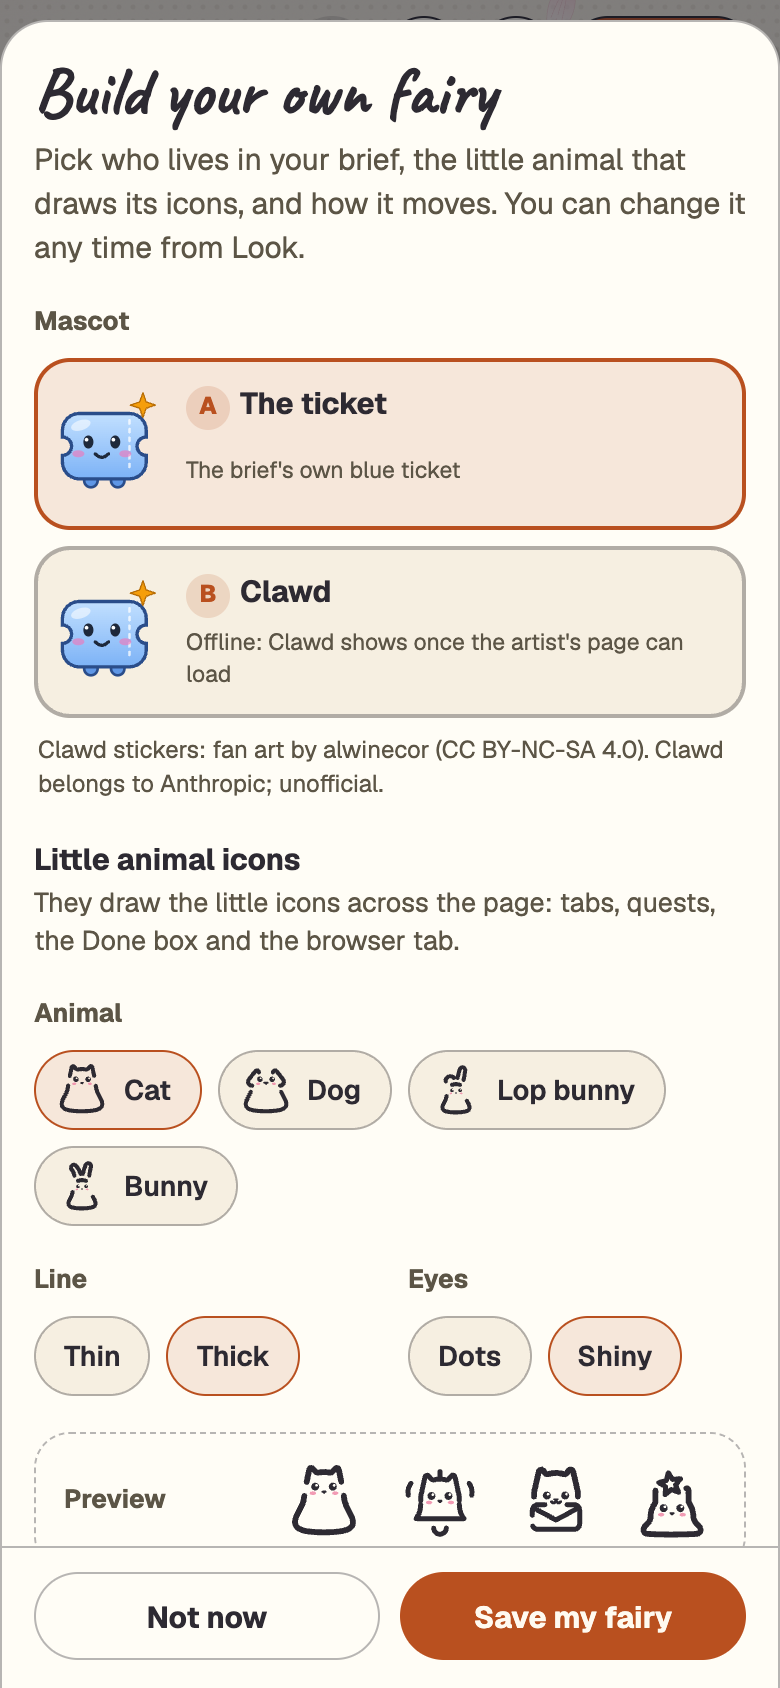
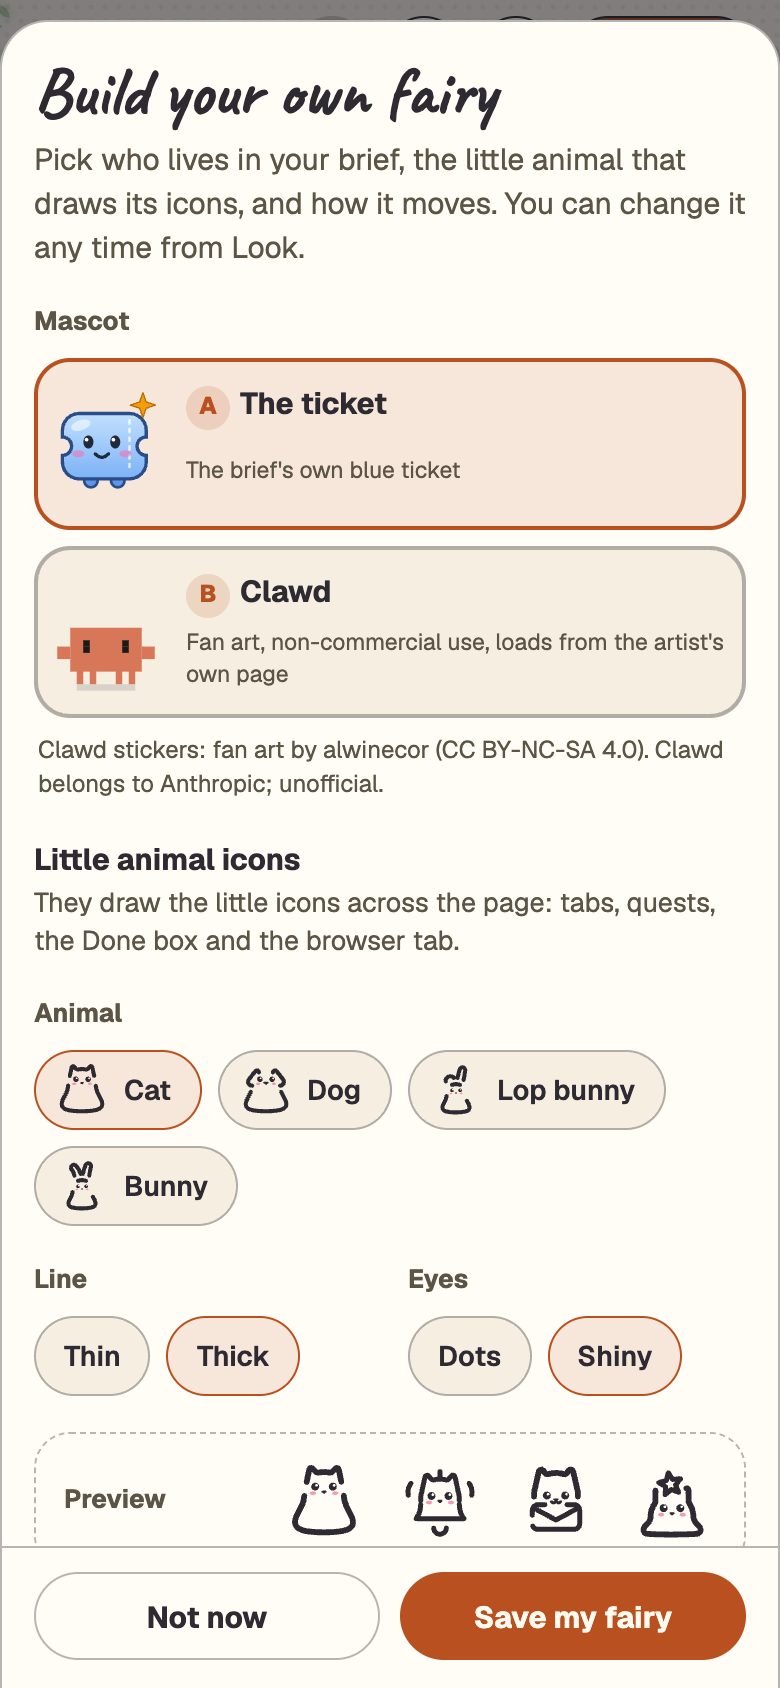
morning-fairy 1.4.1 — the README's picker pictures show Clawd's real sticker (#9)
The two picker screenshots were taken offline, so the Clawd card showed its fallback ticket. Re-shot online with the
artist's idle sticker. NOTICE and Credits now say those two images contain the sticker and are CC BY-NC-SA 4.0.

Changed region(s): [[0.4923, 0.3697, 0.9231, 0.4005], [0.0615, 0.3389, 0.2154, 0.4313], [0.2462, 0.3697, 0.4615, 0.4005]]

diff --git a/README.md b/README.md
@@ -82,7 +82,7 @@ after 6). When you finish something, you tap **Done** and watch it get crossed o
 <p align="center">
   <img src="docs/picker.png" width="760" alt="The Build your own fairy sheet: two mascot cards (the ticket and Clawd), then the little animal icons: four animals, line and eyes, a preview row, and tick boxes for moves"/>
   <br/><sub>The picker over the demo morning, with the little cat in thick lines and shiny eyes. Clawd's card shows the
-  ticket here because no Clawd picture is ever stored in this repository: online, it shows the artist's sticker. (Made-up data.)</sub>
+  artist's sticker, fan art by alwinecor (CC BY-NC-SA 4.0; see Credits). (Made-up data.)</sub>
 </p>
 
 <p align="center">
@@ -269,8 +269,10 @@ python3 -I -B -m unittest discover -s plugins/morning-fairy/skills/morning-fairy
 - **fanfan icons** by 唐幡 ([TangfanOVO/fanfan-icons](https://github.com/TangfanOVO/fanfan-icons)), MIT licence.
   The little animals are bundled in `digest/fanfan/`, with their licence and the commit they came from.
 - **Clawd stickers** by alwinecor ([alwinecor/clawd-stickers](https://github.com/alwinecor/clawd-stickers)),
-  CC BY-NC-SA 4.0. They are **not included in this repository**: if you pick Clawd, your browser loads them from
-  the artist's repository (through jsDelivr, pinned to one commit) when the page opens. Clawd belongs to
+  CC BY-NC-SA 4.0. The code does not bundle them: if you pick Clawd, your browser loads them from the artist's
+  repository (through jsDelivr, pinned to one commit) when the page opens. The only copies here are inside two
+  screenshots, `docs/picker.png` and `docs/picker-phone.png`, which show one sticker on the picker's Clawd card;
+  those two pictures are under CC BY-NC-SA 4.0 (see [NOTICE.md](NOTICE.md)). Clawd belongs to
   Anthropic; these are unofficial fan art, licensed for non-commercial use only. Whether your own use fits that
   licence is your call.
 
@@ -278,6 +280,8 @@ See [NOTICE.md](NOTICE.md).
 
 ## Version history
 
+- **1.4.1** (2026-11-06): the README's picker pictures show Clawd's real sticker on the Clawd card, instead of
+  the ticket the card falls back to offline. Those two pictures carry the sticker's CC BY-NC-SA 4.0 licence.
 - **1.4.0** (2026-11-06): calmer and roomier. The right-hand panel (count tiles, project cards, tabs and buttons)
   now takes its colours from its world, light and dark, a step quieter than the scene. Cards tilt less as they grow
   and not at all past 560 px, so big cards stay easy to read. A tall meeting hill no longer pushes signs into the sun:

diff --git a/NOTICE.md b/NOTICE.md
@@ -35,14 +35,19 @@ SOFTWARE.
 The same notice is in `digest/fanfan/LICENSE`, and the builder keeps fanfan's own MIT header on the motion
 CSS and script it copies into a page.
 
-## Clawd stickers (not included)
+## Clawd stickers (loaded from the artist, plus two screenshots)
 
 If you pick Clawd as your mascot, the page shows stickers by alwinecor from
 [alwinecor/clawd-stickers](https://github.com/alwinecor/clawd-stickers), licensed
 [CC BY-NC-SA 4.0](https://creativecommons.org/licenses/by-nc-sa/4.0/).
 
-- **No Clawd file is in this repository.** Your browser loads each sticker as a picture from the artist's
+- **The code bundles no Clawd file.** Your browser loads each sticker as a picture from the artist's
   repository through jsDelivr, pinned to commit `516f40536c9e3aaaa9995c267daad6e4d45e3d80`, when the page opens.
 - The page credits the artist wherever Clawd appears.
 - Clawd is a character that belongs to Anthropic. These stickers are unofficial fan art, and their licence
   allows non-commercial use only. Whether your own use fits that licence is your call.
+- **Two screenshots show one sticker.** `docs/picker.png` and `docs/picker-phone.png` picture the picker with
+  `dev-life/theme/clawd-dev-life/assets/idle.svg` (same commit) on its Clawd card. Because they contain the
+  artist's work, these two images are licensed
+  [CC BY-NC-SA 4.0](https://creativecommons.org/licenses/by-nc-sa/4.0/), not MIT: credit alwinecor, no commercial
+  use, and share any adaptation under the same licence. The rest of the repository stays MIT.

diff --git a/plugins/morning-fairy/skills/morning-fairy/SKILL.md b/plugins/morning-fairy/skills/morning-fairy/SKILL.md
@@ -1,6 +1,6 @@
 ---
 name: morning-fairy
-version: 1.4.0
+version: 1.4.1
 description: |
   Build a cute one-screen morning brief: the shape of today drawn as a little world (a draggable sun,
   hills that rise at each meeting, a ticket mascot at "now"), what needs you from email, chat,
